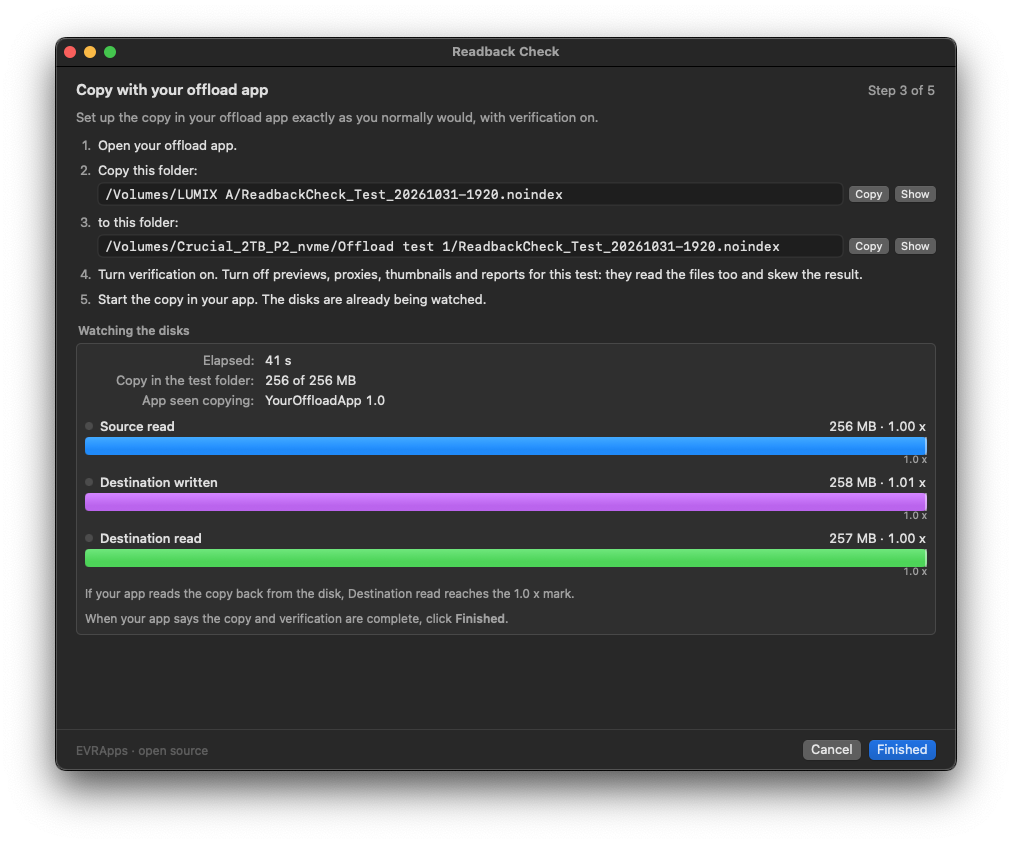
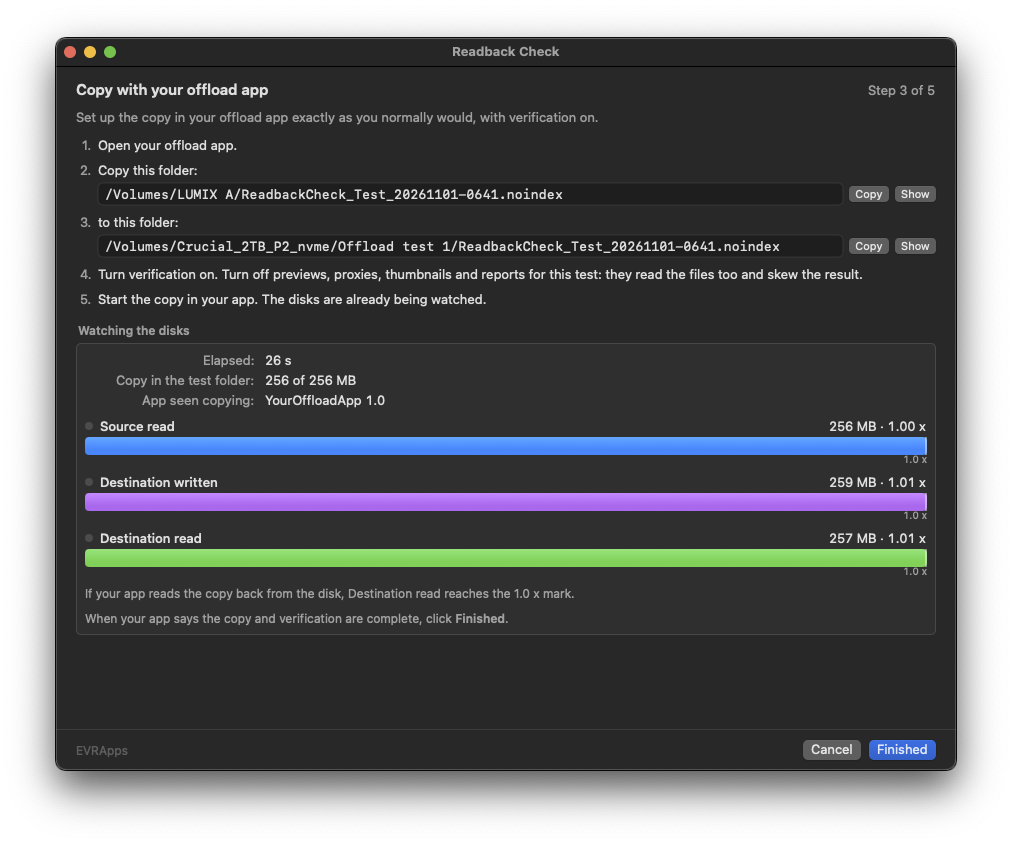
README: screenshots of the current interface

diff --git a/README.md b/README.md
@@ -42,7 +42,7 @@ The result is about your app on that disk, with the settings used for that test.
 <p align="center">
   <img src="docs/images/step5-result.png" width="720" alt="Readback Check result: the copy was read back from the destination disk">
 </p>
-<p align="center"><sub>Step 5, the result of the same test: the offload app was identified during the copy, and the instrument check passed.</sub></p>
+<p align="center"><sub>Step 5, the result of the same test: the offload app was identified during the copy, the verification setting typed at step 1 is recorded, and the instrument check passed.</sub></p>
 
 Readback Check refuses to run on the system disk, and when the copy starts before step 3 shows the folders. While a Time Machine backup is running, it refuses a source or destination that the backup includes or writes to, and any network destination; disks left out of Time Machine, as external disks are by default, can be tested during a backup.
 
